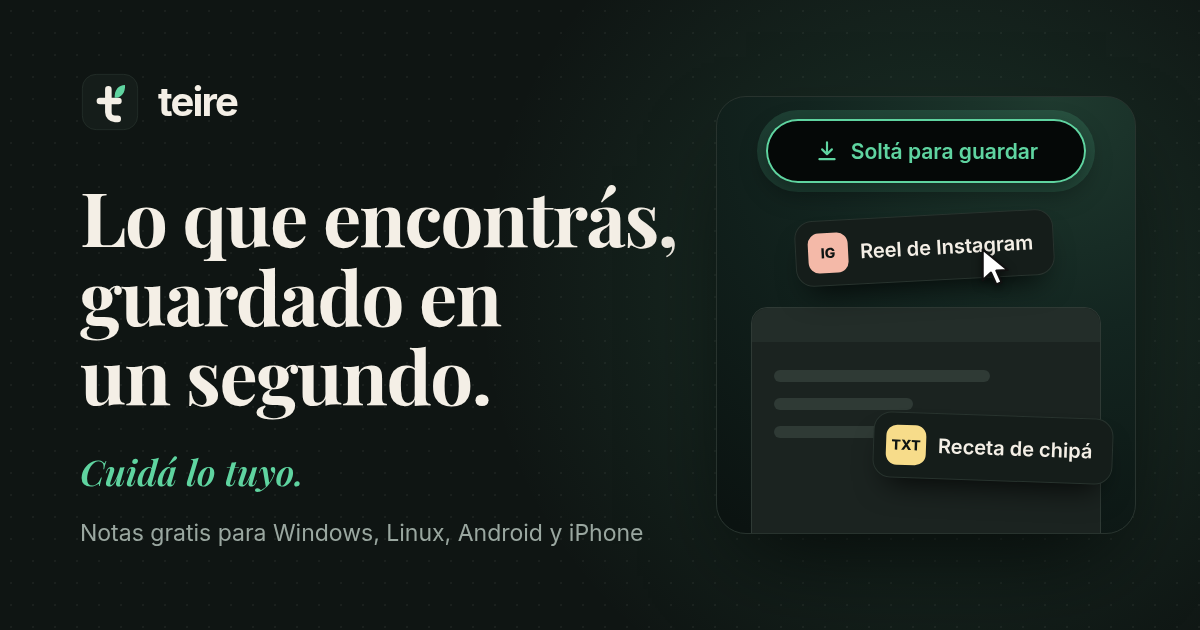
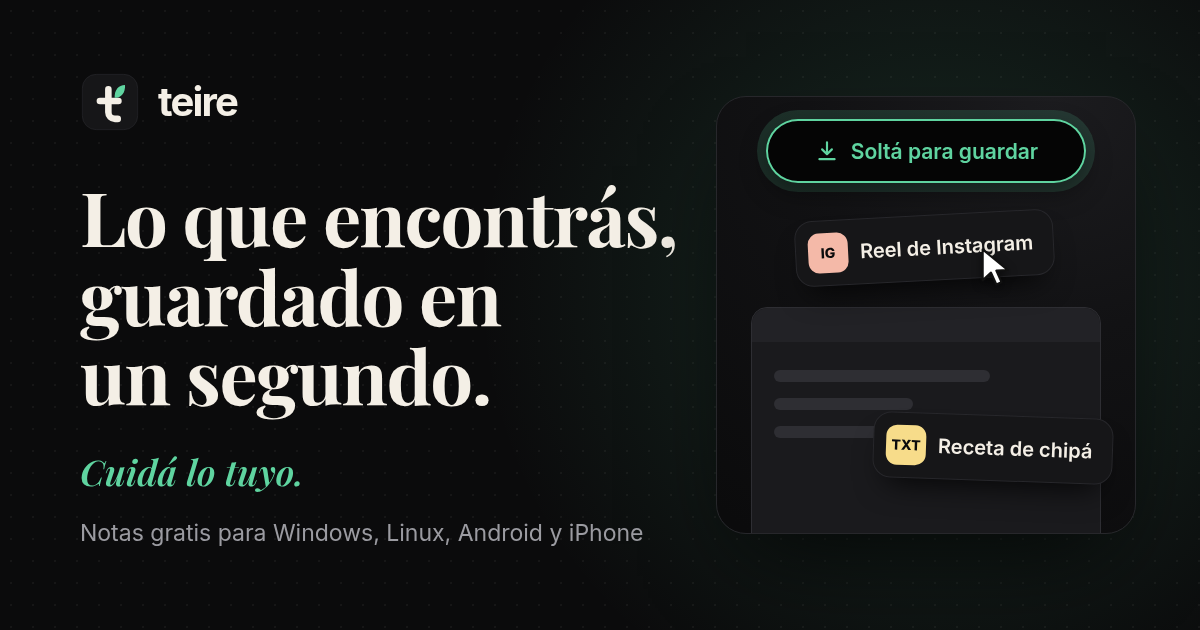
Sitio: modo oscuro negro, sin tinte verde
El fondo y las tarjetas pasan de negro verdoso a negro neutro en todas las
páginas, los SVG del README y la imagen para compartir. El verde queda como
acento (botones, tildes y la hojita del logo).

Changed region(s): [[0.7708, 0.1508, 0.9558, 0.3619]]

diff --git a/docs/assets/inicio.css b/docs/assets/inicio.css
@@ -13,12 +13,12 @@
 .nota-so a { color: var(--crema); }
 
 /* El juego de la isla: un pedazo de escritorio con la isla arriba al centro, igual a la de la app de Windows */
-.juego { position: relative; z-index: 0; isolation: isolate; height: 440px; margin-top: 40px; touch-action: pan-y; border-radius: 32px; border: 1px solid var(--linea); background: radial-gradient(130% 120% at 80% 0%, #1f3a2f 0%, #132520 45%, #0b1311 100%); overflow: hidden; }
-.ventana-falsa { position: absolute; left: 50%; top: 120px; bottom: -1px; width: min(460px, 62%); translate: -50% 0; border-radius: 16px 16px 0 0; background: #1b2320; border: 1px solid #2f3a35; border-bottom: 0; box-shadow: 0 14px 30px rgba(0,0,0,.25); pointer-events: none; }
-.ventana-falsa::before { content: ""; position: absolute; inset: 0 0 auto; height: 34px; border-radius: 16px 16px 0 0; background: #232d29; }
-.ventana-falsa i { position: absolute; left: 22px; top: 62px; width: 62%; height: 12px; border-radius: 6px; background: #2f3a35; }
+.juego { position: relative; z-index: 0; isolation: isolate; height: 440px; margin-top: 40px; touch-action: pan-y; border-radius: 32px; border: 1px solid var(--linea); background: radial-gradient(130% 120% at 80% 0%, #1c1c1f 0%, #121214 45%, #0b0b0c 100%); overflow: hidden; }
+.ventana-falsa { position: absolute; left: 50%; top: 120px; bottom: -1px; width: min(460px, 62%); translate: -50% 0; border-radius: 16px 16px 0 0; background: #1a1a1d; border: 1px solid #2e2e33; border-bottom: 0; box-shadow: 0 14px 30px rgba(0,0,0,.25); pointer-events: none; }
+.ventana-falsa::before { content: ""; position: absolute; inset: 0 0 auto; height: 34px; border-radius: 16px 16px 0 0; background: #222226; }
+.ventana-falsa i { position: absolute; left: 22px; top: 62px; width: 62%; height: 12px; border-radius: 6px; background: #2e2e33; }
 .ventana-falsa i:nth-child(2) { top: 90px; width: 40%; } .ventana-falsa i:nth-child(3) { top: 118px; width: 54%; }
-.isla { --w: 96px; --h: 30px; position: absolute; left: 50%; top: 14px; z-index: 2; width: var(--w); height: var(--h); border-radius: calc(var(--h) / 2); translate: -50% 0; overflow: hidden; background: #050807; color: var(--crema); font: 500 .84rem/1.3 var(--sans); box-shadow: 0 8px 22px rgba(0,0,0,.32), inset 0 0 0 1px rgba(255,255,255,.07); transition: width .55s cubic-bezier(.34,1.3,.5,1), height .55s cubic-bezier(.34,1.3,.5,1), box-shadow .3s; }
+.isla { --w: 96px; --h: 30px; position: absolute; left: 50%; top: 14px; z-index: 2; width: var(--w); height: var(--h); border-radius: calc(var(--h) / 2); translate: -50% 0; overflow: hidden; background: #050505; color: var(--crema); font: 500 .84rem/1.3 var(--sans); box-shadow: 0 8px 22px rgba(0,0,0,.32), inset 0 0 0 1px rgba(255,255,255,.07); transition: width .55s cubic-bezier(.34,1.3,.5,1), height .55s cubic-bezier(.34,1.3,.5,1), box-shadow .3s; }
 .isla .capa { position: absolute; inset: 0; display: flex; align-items: center; justify-content: center; gap: 8px; white-space: nowrap; opacity: 0; transition: opacity .16s ease; }
 .isla[data-estado="reposo"] .c-reposo, .isla[data-estado="encima"] .c-encima, .isla[data-estado="guardando"] .c-guardando, .isla[data-estado="guardado"] .c-guardado { opacity: 1; transition: opacity .22s ease .14s; }
 .isla .c-reposo { justify-content: space-between; padding: 0 12px 0 11px; }
@@ -48,7 +48,7 @@
 /* En el celular el juego es el mismo (así se sabe que en Windows existe), con las tarjetas arriba y abajo de la ventana. */
 @media (max-width: 760px) {
   .juego { height: 630px; border-radius: 24px; }
-  .ventana-falsa { top: 250px; bottom: 180px; width: 84%; border-radius: 16px; border-bottom: 1px solid #2f3a35; }
+  .ventana-falsa { top: 250px; bottom: 180px; width: 84%; border-radius: 16px; border-bottom: 1px solid #2e2e33; }
   .c1 { left: 10px; top: 64px; } .c5 { left: auto; right: 10px; top: 122px; } .c4 { right: auto; left: 10px; top: 180px; }
   .c3 { right: auto; left: 10px; top: 440px; } .c2 { left: auto; right: 10px; top: 500px; }
   .pista { display: none; }
@@ -77,16 +77,16 @@
 .mesa { position: relative; z-index: 0; isolation: isolate; height: 520px; border-radius: 32px; background: var(--superficie); border: 1px solid var(--linea); background-image: radial-gradient(rgba(244,239,230,.07) 1.2px, transparent 1.2px); background-size: 22px 22px; touch-action: pan-y; overflow: hidden; }
 .papel { position: absolute; width: 230px; padding: 18px 18px 16px; border-radius: 8px 8px 8px 22px; color: var(--tinta); box-shadow: 0 18px 30px -16px rgba(0,0,0,.75); cursor: grab; user-select: none; -webkit-user-select: none; touch-action: none; }
 .papel:active { cursor: grabbing; }
-.papel .etiqueta { font-size: .72rem; font-weight: 700; padding: 3px 9px; border-radius: 999px; background: rgba(15,21,19,.1); }
+.papel .etiqueta { font-size: .72rem; font-weight: 700; padding: 3px 9px; border-radius: 999px; background: rgba(11, 11, 12,.1); }
 .papel h3 { font-size: 1.08rem; margin-top: 10px; letter-spacing: -0.01em; }
-.papel p { font-size: .9rem; color: rgba(15,21,19,.72); margin-top: 6px; }
+.papel p { font-size: .9rem; color: rgba(11, 11, 12,.72); margin-top: 6px; }
 .papel ul { list-style: none; padding: 0; margin: 10px 0 0; display: grid; gap: 7px; font-size: .92rem; }
 .papel label { display: flex; align-items: center; gap: 9px; cursor: pointer; }
-.papel input { appearance: none; -webkit-appearance: none; margin: 0; flex: none; width: 18px; height: 18px; border-radius: 5px; border: 2px solid rgba(15,21,19,.6); display: grid; place-items: center; cursor: pointer; transition: background .15s; }
+.papel input { appearance: none; -webkit-appearance: none; margin: 0; flex: none; width: 18px; height: 18px; border-radius: 5px; border: 2px solid rgba(11, 11, 12,.6); display: grid; place-items: center; cursor: pointer; transition: background .15s; }
 .papel input:checked { background: var(--tinta); border-color: var(--tinta); }
 .papel input:checked::after { content: ""; width: 9px; height: 5px; border-left: 2.5px solid var(--crema); border-bottom: 2.5px solid var(--crema); rotate: -45deg; translate: 0 -1px; }
 .papel input:checked + span { text-decoration: line-through; opacity: .5; }
-.papel .avance { height: 5px; border-radius: 3px; background: rgba(15,21,19,.14); margin-top: 12px; overflow: hidden; }
+.papel .avance { height: 5px; border-radius: 3px; background: rgba(11, 11, 12,.14); margin-top: 12px; overflow: hidden; }
 .papel .avance i { display: block; height: 100%; width: 25%; background: var(--tinta); border-radius: inherit; transition: width .35s cubic-bezier(.3,1.4,.5,1); }
 .papel svg { display: block; margin-top: 8px; }
 .p-super { background: var(--amarillo); left: 5%; top: 34px; rotate: -5deg; }
@@ -108,8 +108,8 @@
 .pila { margin-top: 56px; display: grid; gap: 28px; }
 .tarjeta { position: sticky; top: calc(96px + var(--i) * 18px); min-height: 380px; border-radius: 32px; padding: 44px; color: var(--tinta); display: grid; grid-template-columns: minmax(0, 1fr) minmax(0, 1fr); gap: 40px; align-items: center; transform-origin: 50% 0; box-shadow: 0 -20px 50px -30px rgba(0,0,0,.6); }
 .tarjeta h3 { font-family: var(--serif); font-size: clamp(1.8rem, 3.2vw, 2.5rem); line-height: 1.08; }
-.tarjeta p { margin-top: 14px; font-size: 1.05rem; color: rgba(15,21,19,.78); max-width: 32em; }
-.tarjeta .que { display: inline-block; font-size: .8rem; font-weight: 700; padding: 4px 12px; border-radius: 999px; background: rgba(15,21,19,.1); margin-bottom: 16px; }
+.tarjeta p { margin-top: 14px; font-size: 1.05rem; color: rgba(11, 11, 12,.78); max-width: 32em; }
+.tarjeta .que { display: inline-block; font-size: .8rem; font-weight: 700; padding: 4px 12px; border-radius: 999px; background: rgba(11, 11, 12,.1); margin-bottom: 16px; }
 .tarjeta.oscura { background: var(--superficie-2); color: var(--crema); border: 1px solid var(--linea); }
 .tarjeta.oscura p { color: var(--gris-claro); }
 .tarjeta.oscura .que { background: rgba(95,212,160,.14); color: var(--brote); }
@@ -117,7 +117,7 @@
 .oscura .ilus { background: var(--superficie); }
 .fila { display: flex; align-items: center; gap: 10px; font-size: .95rem; font-weight: 500; }
 .fila .cara { width: 32px; height: 32px; border-radius: 50%; display: grid; place-items: center; font-size: .8rem; font-weight: 700; flex: none; }
-.globo { padding: 10px 14px; border-radius: 16px 16px 16px 4px; background: rgba(15,21,19,.86); color: var(--crema); font-size: .9rem; max-width: 80%; }
+.globo { padding: 10px 14px; border-radius: 16px 16px 16px 4px; background: rgba(11, 11, 12,.86); color: var(--crema); font-size: .9rem; max-width: 80%; }
 .globo.mio { margin-left: auto; border-radius: 16px 16px 4px 16px; background: var(--hoja); }
 .cursor-escribe::after { content: ""; display: inline-block; width: 2px; height: 1em; background: currentColor; margin-left: 2px; vertical-align: -2px; animation: titila 1s steps(1) infinite; }
 @keyframes titila { 50% { opacity: 0; } }
@@ -127,7 +127,7 @@
 .onda i:nth-child(2n) { animation-delay: -.3s; } .onda i:nth-child(3n) { animation-delay: -.6s; } .onda i:nth-child(5n) { animation-delay: -.85s; }
 @keyframes onda { 50% { height: 100%; } }
 .dias { display: grid; grid-template-columns: repeat(7, 1fr); gap: 6px; text-align: center; font-size: .8rem; font-weight: 600; }
-.dias span { padding: 10px 0; border-radius: 12px; background: rgba(15,21,19,.08); }
+.dias span { padding: 10px 0; border-radius: 12px; background: rgba(11, 11, 12,.08); }
 .dias .hoy { background: var(--tinta); color: var(--crema); }
 .aviso-recordar { display: flex; align-items: center; gap: 12px; padding: 14px 16px; border-radius: 16px; background: var(--tinta); color: var(--crema); font-size: .92rem; }
 .aviso-recordar b { color: var(--sol); font-size: .78rem; display: block; }
@@ -141,7 +141,7 @@
 }
 
 /* Premium: probá los temas acá mismo */
-.premium { --p-fondo: #151D1A; --p-texto: #F4EFE6; --p-acento: #5FD4A0; --p-tarjeta: #1C2622; border-radius: 36px; padding: 56px; background: var(--p-fondo); color: var(--p-texto); border: 1px solid color-mix(in srgb, var(--p-texto) 12%, transparent); transition: background .6s, color .6s; display: grid; grid-template-columns: minmax(0, 1fr) minmax(0, 1fr); gap: 48px; align-items: center; }
+.premium { --p-fondo: #161618; --p-texto: #F4EFE6; --p-acento: #5FD4A0; --p-tarjeta: #1E1E21; border-radius: 36px; padding: 56px; background: var(--p-fondo); color: var(--p-texto); border: 1px solid color-mix(in srgb, var(--p-texto) 12%, transparent); transition: background .6s, color .6s; display: grid; grid-template-columns: minmax(0, 1fr) minmax(0, 1fr); gap: 48px; align-items: center; }
 .premium .sello { display: inline-flex; align-items: center; gap: 8px; padding: 6px 14px; border-radius: 999px; background: rgba(255,200,107,.12); border: 1px solid rgba(255,200,107,.32); color: var(--sol); font-weight: 600; font-size: .88rem; }
 .premium .sello svg { width: 16px; height: 16px; }
 .premium h2 { font-family: var(--serif); font-size: clamp(1.9rem, 3.4vw, 2.7rem); line-height: 1.1; margin-top: 18px; }
@@ -220,7 +220,7 @@
 .cosa-e h3 { font-size: .92rem; letter-spacing: -0.01em; }
 .cosa-e p { font-size: .88rem; margin-top: 6px; }
 .e-nota { left: 5%; top: 92px; width: 200px; background: var(--amarillo); color: var(--tinta); rotate: -2deg; }
-.e-nota p { color: rgba(15,21,19,.72); }
+.e-nota p { color: rgba(11, 11, 12,.72); }
 .e-lista { left: 44%; top: 84px; width: 220px; background: var(--superficie-2); border: 1px solid var(--linea-fuerte); }
 .e-lista ul { list-style: none; padding: 0; margin: 10px 0 0; display: grid; gap: 8px; font-size: .88rem; }
 .e-lista label { display: flex; align-items: center; gap: 9px; cursor: pointer; }
@@ -230,7 +230,7 @@
 .e-lista input:checked + span { text-decoration: line-through; opacity: .5; }
 .e-kanban { left: 8%; top: 290px; width: min(470px, 84%); background: var(--superficie-2); border: 1px solid var(--linea-fuerte); }
 .e-kanban .columnas { display: grid; grid-template-columns: repeat(3, minmax(0, 1fr)); gap: 8px; margin-top: 10px; }
-.e-kanban .columnas > div { display: grid; align-content: start; gap: 6px; padding: 8px; border-radius: 10px; background: rgba(15,21,19,.45); }
+.e-kanban .columnas > div { display: grid; align-content: start; gap: 6px; padding: 8px; border-radius: 10px; background: rgba(11, 11, 12,.45); }
 .e-kanban b { display: flex; align-items: center; gap: 6px; font-size: .76rem; white-space: nowrap; }
 .e-kanban b i { width: 8px; height: 8px; border-radius: 50%; flex: none; }
 .e-kanban span { padding: 6px 8px; border-radius: 7px; background: var(--superficie); border: 1px solid var(--linea); font-size: .78rem; line-height: 1.3; color: var(--gris-claro); }
@@ -261,7 +261,7 @@
 .sello-nuevo { display: inline-block; font-size: .75rem; font-weight: 700; letter-spacing: .04em; padding: 4px 11px; border-radius: 999px; color: var(--brote); background: rgba(95,212,160,.12); border: 1px solid rgba(95,212,160,.3); }
 .ia-escena { position: relative; min-height: 440px; padding: 22px 18px 150px; border-radius: 26px; border: 1px solid var(--linea); overflow: hidden;
   background: radial-gradient(420px 220px at 15% 110%, rgba(95,212,160,.22), transparent 65%), radial-gradient(360px 200px at 95% -10%, rgba(255,200,107,.2), transparent 65%), linear-gradient(160deg, #2b4a5c, #1b2d3a 55%, #152029); }
-.ia-isla { position: relative; z-index: 2; margin: 0 auto; max-width: 520px; border-radius: 28px; background: #050807; color: var(--crema); box-shadow: 0 18px 40px rgba(0,0,0,.45), inset 0 0 0 1px rgba(255,255,255,.07); font-size: .9rem; line-height: 1.35; }
+.ia-isla { position: relative; z-index: 2; margin: 0 auto; max-width: 520px; border-radius: 28px; background: #050505; color: var(--crema); box-shadow: 0 18px 40px rgba(0,0,0,.45), inset 0 0 0 1px rgba(255,255,255,.07); font-size: .9rem; line-height: 1.35; }
 .ia-pestanas { display: flex; align-items: center; justify-content: center; gap: 2px; padding: 10px 12px 0; }
 .ia-t { width: 18px; height: 18px; margin: 0 4px; }
 .ia-sep { width: 1px; height: 16px; margin: 0 6px; background: rgba(244,239,230,.12); }
@@ -302,10 +302,10 @@
 .ia-sw i::after { content: ""; position: absolute; top: 2px; left: 2px; width: 12px; height: 12px; border-radius: 50%; background: var(--crema); }
 .ia-sw.on i { background: var(--brote); } .ia-sw.on i::after { left: 14px; background: #fff; }
 .ia-campo { display: flex; align-items: center; height: 36px; padding: 0 12px; border-radius: 12px; background: rgba(244,239,230,.08); color: var(--gris); font-size: .82rem; margin-bottom: 6px; }
-.ia-pastilla { position: absolute; z-index: 2; left: 22px; bottom: 44px; display: flex; align-items: center; gap: 8px; height: 32px; padding: 0 14px; border-radius: 99px; background: #050807; color: var(--gris); font-size: .8rem; box-shadow: 0 10px 24px rgba(0,0,0,.4), inset 0 0 0 1px rgba(255,255,255,.07); white-space: nowrap; }
+.ia-pastilla { position: absolute; z-index: 2; left: 22px; bottom: 44px; display: flex; align-items: center; gap: 8px; height: 32px; padding: 0 14px; border-radius: 99px; background: #050505; color: var(--gris); font-size: .8rem; box-shadow: 0 10px 24px rgba(0,0,0,.4), inset 0 0 0 1px rgba(255,255,255,.07); white-space: nowrap; }
 .ia-pastilla svg { width: 16px; height: 16px; fill: none; stroke: var(--brote); stroke-width: 2; stroke-linecap: round; }
 .ia-pastilla b { color: var(--brote); font-variant-numeric: tabular-nums; }
-.ia-postit { position: absolute; z-index: 1; right: 18px; bottom: 18px; width: 170px; display: flex; flex-direction: column; gap: 4px; padding: 0 12px 12px; border-radius: 14px; background: #1C2622; box-shadow: 0 14px 30px rgba(0,0,0,.4), inset 0 0 0 1px rgba(255,255,255,.07); font-size: .8rem; rotate: 3deg; }
+.ia-postit { position: absolute; z-index: 1; right: 18px; bottom: 18px; width: 170px; display: flex; flex-direction: column; gap: 4px; padding: 0 12px 12px; border-radius: 14px; background: #1E1E21; box-shadow: 0 14px 30px rgba(0,0,0,.4), inset 0 0 0 1px rgba(255,255,255,.07); font-size: .8rem; rotate: 3deg; }
 .ia-postit b { margin: 0 -12px 4px; padding: 7px 12px; border-radius: 14px 14px 0 0; color: var(--sol); background: rgba(255,200,107,.15); font-size: .78rem; }
 .ia-postit span::before { content: ""; display: inline-block; width: 10px; height: 10px; margin-right: 7px; border-radius: 50%; border: 1.5px solid var(--gris); vertical-align: -1px; }
 .ia-postit span.hecho { color: var(--gris); text-decoration: line-through; }
@@ -348,18 +348,18 @@
 .ia-ava.chica { width: 22px; height: 22px; font-size: .66rem; }
 .ia-caras { display: flex; gap: 14px; margin-bottom: 6px; }
 .ia-cara { position: relative; display: flex; flex-direction: column; align-items: center; gap: 3px; font-size: .7rem; color: var(--gris); }
-.ia-cara .en { position: absolute; top: 26px; left: 26px; width: 10px; height: 10px; border-radius: 50%; background: var(--brote); box-shadow: 0 0 0 2.5px #050807; }
+.ia-cara .en { position: absolute; top: 26px; left: 26px; width: 10px; height: 10px; border-radius: 50%; background: var(--brote); box-shadow: 0 0 0 2.5px #050505; }
 .ia-cara .ia-num { top: -3px; right: -4px; }
 .ia-seg { display: inline-flex; gap: 2px; padding: 3px; margin-bottom: 8px; border-radius: 99px; background: rgba(244,239,230,.08); }
 .ia-seg button { height: 26px; padding: 0 12px; border: 0; border-radius: 99px; font: 600 .74rem/1 var(--sans); color: var(--gris); background: none; cursor: pointer; }
-.ia-seg button.on { color: #050807; background: var(--crema); }
+.ia-seg button.on { color: #050505; background: var(--crema); }
 .ia-estante { display: flex; gap: 8px; margin-bottom: 6px; }
 .ia-estante span { flex: 1; min-width: 0; display: flex; flex-direction: column; gap: 5px; padding: 7px; border-radius: 12px; background: rgba(244,239,230,.07); font-size: .72rem; white-space: nowrap; overflow: hidden; text-overflow: ellipsis; }
 .ia-estante i { display: block; height: 44px; border-radius: 8px; }
 .ia-grupo { display: grid; grid-template-columns: .9fr 1.1fr; gap: 14px; }
 .ia-grupo .de { display: block; color: var(--gris); font-size: .72rem; margin-top: 4px; }
 .ia-apilar { display: flex; margin-top: 4px; }
-.ia-apilar .ia-ava { margin-left: -6px; box-shadow: 0 0 0 2.5px #050807; }
+.ia-apilar .ia-ava { margin-left: -6px; box-shadow: 0 0 0 2.5px #050505; }
 .ia-apilar .ia-ava:first-child { margin-left: 0; }
 .ia-prog { height: 6px; margin-top: 8px; border-radius: 9px; background: rgba(244,239,230,.08); overflow: hidden; }
 .ia-prog i { display: block; height: 100%; border-radius: 9px; background: var(--brote); }

diff --git a/scripts/compartir.html b/scripts/compartir.html
@@ -14,12 +14,12 @@ body { background: var(--tinta) radial-gradient(circle at 78% 46%, rgba(95,212,1
 h1 { font: 700 76px/1.04 var(--serif); letter-spacing: -.02em; margin: 44px 0 0; }
 .lema { font: italic 600 36px/1 var(--serif); color: var(--brote); margin: 40px 0 0; }
 .abajo { color: var(--gris); font-size: 23px; margin: 26px 0 0; }
-.pantalla { position: absolute; right: 64px; top: 96px; width: 420px; height: 438px; border-radius: 30px; border: 1px solid var(--linea); overflow: hidden; background: radial-gradient(130% 120% at 80% 0%, #1f3a2f 0%, #132520 45%, #0b1311 100%); box-shadow: 0 40px 90px -30px rgba(0,0,0,.8); }
-.ventana { position: absolute; left: 34px; right: 34px; top: 210px; bottom: -2px; border-radius: 16px 16px 0 0; background: #1b2320; border: 1px solid #2f3a35; }
-.ventana::before { content: ""; position: absolute; inset: 0 0 auto; height: 34px; border-radius: 16px 16px 0 0; background: #232d29; }
-.ventana i { position: absolute; left: 22px; top: 62px; width: 62%; height: 12px; border-radius: 6px; background: #2f3a35; }
+.pantalla { position: absolute; right: 64px; top: 96px; width: 420px; height: 438px; border-radius: 30px; border: 1px solid var(--linea); overflow: hidden; background: radial-gradient(130% 120% at 80% 0%, #1c1c1f 0%, #121214 45%, #0b0b0c 100%); box-shadow: 0 40px 90px -30px rgba(0,0,0,.8); }
+.ventana { position: absolute; left: 34px; right: 34px; top: 210px; bottom: -2px; border-radius: 16px 16px 0 0; background: #1a1a1d; border: 1px solid #2e2e33; }
+.ventana::before { content: ""; position: absolute; inset: 0 0 auto; height: 34px; border-radius: 16px 16px 0 0; background: #222226; }
+.ventana i { position: absolute; left: 22px; top: 62px; width: 62%; height: 12px; border-radius: 6px; background: #2e2e33; }
 .ventana i:nth-child(2) { top: 90px; width: 40%; } .ventana i:nth-child(3) { top: 118px; width: 54%; }
-.isla { position: absolute; left: 50%; top: 22px; translate: -50% 0; display: flex; align-items: center; justify-content: center; gap: 11px; width: 320px; height: 64px; border-radius: 32px; background: #050807; color: var(--brote); font: 600 21px/1 var(--sans); box-shadow: 0 10px 26px rgba(0,0,0,.4), inset 0 0 0 2px var(--brote), 0 0 0 9px rgba(95,212,160,.16); }
+.isla { position: absolute; left: 50%; top: 22px; translate: -50% 0; display: flex; align-items: center; justify-content: center; gap: 11px; width: 320px; height: 64px; border-radius: 32px; background: #050505; color: var(--brote); font: 600 21px/1 var(--sans); box-shadow: 0 10px 26px rgba(0,0,0,.4), inset 0 0 0 2px var(--brote), 0 0 0 9px rgba(95,212,160,.16); }
 .isla svg { width: 26px; height: 26px; }
 .ficha { position: absolute; display: flex; align-items: center; gap: 12px; padding: 12px 20px 12px 12px; border-radius: 18px; background: var(--superficie); border: 1px solid var(--linea); font: 600 20px/1.2 var(--sans); box-shadow: 0 18px 30px -14px rgba(0,0,0,.8); }
 .ficha b { display: grid; place-items: center; width: 40px; height: 40px; border-radius: 11px; font-size: 14px; font-weight: 800; color: var(--tinta); }
@@ -29,7 +29,7 @@ h1 { font: 700 76px/1.04 var(--serif); letter-spacing: -.02em; margin: 44px 0 0;
 </head>
 <body>
 <div class="izq">
-  <div class="marca"><svg viewBox="0 0 512 512"><rect x="20" y="20" width="472" height="472" rx="118" fill="#151D1A" stroke="#28332E" stroke-width="6"/><g transform="translate(16 6)"><path d="M226 142 V338 a56 56 0 0 0 56 56 h24" fill="none" stroke="#F4EFE6" stroke-width="56" stroke-linecap="round" stroke-linejoin="round"/><path d="M154 242 H312" fill="none" stroke="#F4EFE6" stroke-width="56" stroke-linecap="round"/><path d="M368 104 C372 170 338 214 280 214 C276 148 312 104 368 104 Z" fill="#5FD4A0"/></g></svg>teire</div>
+  <div class="marca"><svg viewBox="0 0 512 512"><rect x="20" y="20" width="472" height="472" rx="118" fill="#161618" stroke="#27272B" stroke-width="6"/><g transform="translate(16 6)"><path d="M226 142 V338 a56 56 0 0 0 56 56 h24" fill="none" stroke="#F4EFE6" stroke-width="56" stroke-linecap="round" stroke-linejoin="round"/><path d="M154 242 H312" fill="none" stroke="#F4EFE6" stroke-width="56" stroke-linecap="round"/><path d="M368 104 C372 170 338 214 280 214 C276 148 312 104 368 104 Z" fill="#5FD4A0"/></g></svg>teire</div>
   <h1>Lo que encontrás, guardado en un segundo.</h1>
   <p class="lema">Cuidá lo tuyo.</p>
   <p class="abajo">Notas gratis para Windows, Linux, Android y iPhone</p>

diff --git a/docs/index.html b/docs/index.html
@@ -7,7 +7,7 @@
 <meta name="description" content="Teire (antes Noty) es una app de notas gratis: listas que completás en vivo con tus amigos, un Espacio para trabajar en grupo, recordatorios y una isla en tu pantalla que guarda links y fotos, muestra tu música y tu día, y te acompaña en modo foco.">
 <link rel="canonical" href="https://useteire.app/">
 <meta name="robots" content="index, follow, max-image-preview:large">
-<meta name="theme-color" content="#0F1513">
+<meta name="theme-color" content="#0B0B0C">
 <meta name="author" content="Teire">
 <meta property="og:type" content="website">
 <meta property="og:locale" content="es_AR">
@@ -83,7 +83,7 @@
 
 <svg width="0" height="0" style="position:absolute" aria-hidden="true">
   <defs>
-    <symbol id="logo" viewBox="0 0 512 512"><rect x="20" y="20" width="472" height="472" rx="118" fill="#151D1A" stroke="#28332E" stroke-width="10"/><path d="M226 142 V338 a56 56 0 0 0 56 56 h24" fill="none" stroke="#F4EFE6" stroke-width="56" stroke-linecap="round" stroke-linejoin="round"/><path d="M154 242 H312" fill="none" stroke="#F4EFE6" stroke-width="56" stroke-linecap="round"/><path d="M368 104 C372 170 338 214 280 214 C276 148 312 104 368 104 Z" fill="#5FD4A0"/></symbol>
+    <symbol id="logo" viewBox="0 0 512 512"><rect x="20" y="20" width="472" height="472" rx="118" fill="#161618" stroke="#27272B" stroke-width="10"/><path d="M226 142 V338 a56 56 0 0 0 56 56 h24" fill="none" stroke="#F4EFE6" stroke-width="56" stroke-linecap="round" stroke-linejoin="round"/><path d="M154 242 H312" fill="none" stroke="#F4EFE6" stroke-width="56" stroke-linecap="round"/><path d="M368 104 C372 170 338 214 280 214 C276 148 312 104 368 104 Z" fill="#5FD4A0"/></symbol>
     <symbol id="flecha-abajo" viewBox="0 0 24 24"><path d="M12 4v13m0 0-5.5-5.5M12 17l5.5-5.5M5 20.5h14" fill="none" stroke="currentColor" stroke-width="2.4" stroke-linecap="round" stroke-linejoin="round"/></symbol>
     <symbol id="hojita" viewBox="0 0 16 16"><path d="M14 2C14.3 8 11.5 12 5 12 4.7 6 7.8 2 14 2Z" fill="currentColor"/><path d="M3 14c2-3 4.5-5.5 8-8" stroke="currentColor" stroke-width="1.4" fill="none" stroke-linecap="round"/></symbol>
     <symbol id="i-windows" viewBox="0 0 24 24"><path d="M3 5.5 10.5 4.4v7.1H3zm8.5-1.2L21 3v8.5h-9.5zM3 12.5h7.5v7.1L3 18.5zm8.5 0H21V21l-9.5-1.3z" fill="currentColor"/></symbol>

diff --git a/docs/alternativa-google-keep/index.html b/docs/alternativa-google-keep/index.html
@@ -6,7 +6,7 @@
 <title>Alternativa a Google Keep gratis para notas · Teire</title>
 <meta name="description" content="Teire es una alternativa gratis a Google Keep: notas y listas en vivo con tus amigos, pizarrones, Espacio para tu grupo y notas con PIN cifradas.">
 <link rel="canonical" href="https://useteire.app/alternativa-google-keep/">
-<meta name="theme-color" content="#0F1513">
+<meta name="theme-color" content="#0B0B0C">
 <meta property="og:type" content="article">
 <meta property="og:locale" content="es_AR">
 <meta property="og:site_name" content="Teire">
@@ -26,7 +26,7 @@
 <body>
 <a class="saltar" href="#contenido">Saltar al contenido</a>
 <svg width="0" height="0" style="position:absolute" aria-hidden="true"><defs>
-<symbol id="logo" viewBox="0 0 512 512"><rect x="20" y="20" width="472" height="472" rx="118" fill="#151D1A" stroke="#28332E" stroke-width="10"/><path d="M226 142 V338 a56 56 0 0 0 56 56 h24" fill="none" stroke="#F4EFE6" stroke-width="56" stroke-linecap="round" stroke-linejoin="round"/><path d="M154 242 H312" fill="none" stroke="#F4EFE6" stroke-width="56" stroke-linecap="round"/><path d="M368 104 C372 170 338 214 280 214 C276 148 312 104 368 104 Z" fill="#5FD4A0"/></symbol>
+<symbol id="logo" viewBox="0 0 512 512"><rect x="20" y="20" width="472" height="472" rx="118" fill="#161618" stroke="#27272B" stroke-width="10"/><path d="M226 142 V338 a56 56 0 0 0 56 56 h24" fill="none" stroke="#F4EFE6" stroke-width="56" stroke-linecap="round" stroke-linejoin="round"/><path d="M154 242 H312" fill="none" stroke="#F4EFE6" stroke-width="56" stroke-linecap="round"/><path d="M368 104 C372 170 338 214 280 214 C276 148 312 104 368 104 Z" fill="#5FD4A0"/></symbol>
 </defs></svg>
 <header class="barra siempre" id="barra">
   <div class="barra-fondo"></div>

diff --git a/docs/notas-compartidas/index.html b/docs/notas-compartidas/index.html
@@ -6,7 +6,7 @@
 <title>App de notas compartidas gratis con tus amigos · Teire</title>
 <meta name="description" content="Compartí notas y listas con tus amigos y editenlas en vivo, letra por letra. Teire es gratis para Windows, Android, iPhone, Linux y el navegador.">
 <link rel="canonical" href="https://useteire.app/notas-compartidas/">
-<meta name="theme-color" content="#0F1513">
+<meta name="theme-color" content="#0B0B0C">
 <meta property="og:type" content="article">
 <meta property="og:locale" content="es_AR">
 <meta property="og:site_name" content="Teire">
@@ -26,7 +26,7 @@
 <body>
 <a class="saltar" href="#contenido">Saltar al contenido</a>
 <svg width="0" height="0" style="position:absolute" aria-hidden="true"><defs>
-<symbol id="logo" viewBox="0 0 512 512"><rect x="20" y="20" width="472" height="472" rx="118" fill="#151D1A" stroke="#28332E" stroke-width="10"/><path d="M226 142 V338 a56 56 0 0 0 56 56 h24" fill="none" stroke="#F4EFE6" stroke-width="56" stroke-linecap="round" stroke-linejoin="round"/><path d="M154 242 H312" fill="none" stroke="#F4EFE6" stroke-width="56" stroke-linecap="round"/><path d="M368 104 C372 170 338 214 280 214 C276 148 312 104 368 104 Z" fill="#5FD4A0"/></symbol>
+<symbol id="logo" viewBox="0 0 512 512"><rect x="20" y="20" width="472" height="472" rx="118" fill="#161618" stroke="#27272B" stroke-width="10"/><path d="M226 142 V338 a56 56 0 0 0 56 56 h24" fill="none" stroke="#F4EFE6" stroke-width="56" stroke-linecap="round" stroke-linejoin="round"/><path d="M154 242 H312" fill="none" stroke="#F4EFE6" stroke-width="56" stroke-linecap="round"/><path d="M368 104 C372 170 338 214 280 214 C276 148 312 104 368 104 Z" fill="#5FD4A0"/></symbol>
 </defs></svg>
 <header class="barra siempre" id="barra">
   <div class="barra-fondo"></div>

diff --git a/docs/iphone/index.html b/docs/iphone/index.html
@@ -6,7 +6,7 @@
 <title>Teire en iPhone: cómo instalarla · Teire</title>
 <meta name="description" content="Cómo instalar Teire en tu iPhone desde Safari, gratis y sin App Store: los pasos, las notificaciones y cómo guardar links.">
 <link rel="canonical" href="https://useteire.app/iphone/">
-<meta name="theme-color" content="#0F1513">
+<meta name="theme-color" content="#0B0B0C">
 <meta property="og:type" content="article">
 <meta property="og:locale" content="es_AR">
 <meta property="og:site_name" content="Teire">
@@ -26,7 +26,7 @@
 <body>
 <a class="saltar" href="#contenido">Saltar al contenido</a>
 <svg width="0" height="0" style="position:absolute" aria-hidden="true"><defs>
-<symbol id="logo" viewBox="0 0 512 512"><rect x="20" y="20" width="472" height="472" rx="118" fill="#151D1A" stroke="#28332E" stroke-width="10"/><path d="M226 142 V338 a56 56 0 0 0 56 56 h24" fill="none" stroke="#F4EFE6" stroke-width="56" stroke-linecap="round" stroke-linejoin="round"/><path d="M154 242 H312" fill="none" stroke="#F4EFE6" stroke-width="56" stroke-linecap="round"/><path d="M368 104 C372 170 338 214 280 214 C276 148 312 104 368 104 Z" fill="#5FD4A0"/></symbol>
+<symbol id="logo" viewBox="0 0 512 512"><rect x="20" y="20" width="472" height="472" rx="118" fill="#161618" stroke="#27272B" stroke-width="10"/><path d="M226 142 V338 a56 56 0 0 0 56 56 h24" fill="none" stroke="#F4EFE6" stroke-width="56" stroke-linecap="round" stroke-linejoin="round"/><path d="M154 242 H312" fill="none" stroke="#F4EFE6" stroke-width="56" stroke-linecap="round"/><path d="M368 104 C372 170 338 214 280 214 C276 148 312 104 368 104 Z" fill="#5FD4A0"/></symbol>
 </defs></svg>
 <header class="barra siempre" id="barra">
   <div class="barra-fondo"></div>

diff --git a/docs/privacidad/index.html b/docs/privacidad/index.html
@@ -6,7 +6,7 @@
 <title>Política de privacidad · Teire</title>
 <meta name="description" content="Qué datos guarda Teire, para qué los usa y con quién se comparten. Sin publicidad, sin analíticas y sin venta de datos.">
 <link rel="canonical" href="https://useteire.app/privacidad/">
-<meta name="theme-color" content="#0F1513">
+<meta name="theme-color" content="#0B0B0C">
 <meta property="og:type" content="article">
 <meta property="og:locale" content="es_AR">
 <meta property="og:site_name" content="Teire">
@@ -26,7 +26,7 @@
 <body>
 <a class="saltar" href="#contenido">Saltar al contenido</a>
 <svg width="0" height="0" style="position:absolute" aria-hidden="true"><defs>
-<symbol id="logo" viewBox="0 0 512 512"><rect x="20" y="20" width="472" height="472" rx="118" fill="#151D1A" stroke="#28332E" stroke-width="10"/><path d="M226 142 V338 a56 56 0 0 0 56 56 h24" fill="none" stroke="#F4EFE6" stroke-width="56" stroke-linecap="round" stroke-linejoin="round"/><path d="M154 242 H312" fill="none" stroke="#F4EFE6" stroke-width="56" stroke-linecap="round"/><path d="M368 104 C372 170 338 214 280 214 C276 148 312 104 368 104 Z" fill="#5FD4A0"/></symbol>
+<symbol id="logo" viewBox="0 0 512 512"><rect x="20" y="20" width="472" height="472" rx="118" fill="#161618" stroke="#27272B" stroke-width="10"/><path d="M226 142 V338 a56 56 0 0 0 56 56 h24" fill="none" stroke="#F4EFE6" stroke-width="56" stroke-linecap="round" stroke-linejoin="round"/><path d="M154 242 H312" fill="none" stroke="#F4EFE6" stroke-width="56" stroke-linecap="round"/><path d="M368 104 C372 170 338 214 280 214 C276 148 312 104 368 104 Z" fill="#5FD4A0"/></symbol>
 </defs></svg>
 <header class="barra siempre" id="barra">
   <div class="barra-fondo"></div>

diff --git a/docs/terminos/index.html b/docs/terminos/index.html
@@ -6,7 +6,7 @@
 <title>Términos y condiciones · Teire</title>
 <meta name="description" content="Las reglas para usar Teire: tu cuenta, tu contenido, lo que no se puede hacer, Teire IA y cómo funciona Teire Premium.">
 <link rel="canonical" href="https://useteire.app/terminos/">
-<meta name="theme-color" content="#0F1513">
+<meta name="theme-color" content="#0B0B0C">
 <meta property="og:type" content="article">
 <meta property="og:locale" content="es_AR">
 <meta property="og:site_name" content="Teire">
@@ -26,7 +26,7 @@
 <body>
 <a class="saltar" href="#contenido">Saltar al contenido</a>
 <svg width="0" height="0" style="position:absolute" aria-hidden="true"><defs>
-<symbol id="logo" viewBox="0 0 512 512"><rect x="20" y="20" width="472" height="472" rx="118" fill="#151D1A" stroke="#28332E" stroke-width="10"/><path d="M226 142 V338 a56 56 0 0 0 56 56 h24" fill="none" stroke="#F4EFE6" stroke-width="56" stroke-linecap="round" stroke-linejoin="round"/><path d="M154 242 H312" fill="none" stroke="#F4EFE6" stroke-width="56" stroke-linecap="round"/><path d="M368 104 C372 170 338 214 280 214 C276 148 312 104 368 104 Z" fill="#5FD4A0"/></symbol>
+<symbol id="logo" viewBox="0 0 512 512"><rect x="20" y="20" width="472" height="472" rx="118" fill="#161618" stroke="#27272B" stroke-width="10"/><path d="M226 142 V338 a56 56 0 0 0 56 56 h24" fill="none" stroke="#F4EFE6" stroke-width="56" stroke-linecap="round" stroke-linejoin="round"/><path d="M154 242 H312" fill="none" stroke="#F4EFE6" stroke-width="56" stroke-linecap="round"/><path d="M368 104 C372 170 338 214 280 214 C276 148 312 104 368 104 Z" fill="#5FD4A0"/></symbol>
 </defs></svg>
 <header class="barra siempre" id="barra">
   <div class="barra-fondo"></div>

diff --git a/docs/arrepentimiento/index.html b/docs/arrepentimiento/index.html
@@ -6,7 +6,7 @@
 <title>Botón de arrepentimiento · Teire</title>
 <meta name="description" content="Cómo arrepentirte de un pago de Teire Premium dentro de los 10 días y recibir la devolución completa.">
 <link rel="canonical" href="https://useteire.app/arrepentimiento/">
-<meta name="theme-color" content="#0F1513">
+<meta name="theme-color" content="#0B0B0C">
 <meta property="og:type" content="article">
 <meta property="og:locale" content="es_AR">
 <meta property="og:site_name" content="Teire">
@@ -26,7 +26,7 @@
 <body>
 <a class="saltar" href="#contenido">Saltar al contenido</a>
 <svg width="0" height="0" style="position:absolute" aria-hidden="true"><defs>
-<symbol id="logo" viewBox="0 0 512 512"><rect x="20" y="20" width="472" height="472" rx="118" fill="#151D1A" stroke="#28332E" stroke-width="10"/><path d="M226 142 V338 a56 56 0 0 0 56 56 h24" fill="none" stroke="#F4EFE6" stroke-width="56" stroke-linecap="round" stroke-linejoin="round"/><path d="M154 242 H312" fill="none" stroke="#F4EFE6" stroke-width="56" stroke-linecap="round"/><path d="M368 104 C372 170 338 214 280 214 C276 148 312 104 368 104 Z" fill="#5FD4A0"/></symbol>
+<symbol id="logo" viewBox="0 0 512 512"><rect x="20" y="20" width="472" height="472" rx="118" fill="#161618" stroke="#27272B" stroke-width="10"/><path d="M226 142 V338 a56 56 0 0 0 56 56 h24" fill="none" stroke="#F4EFE6" stroke-width="56" stroke-linecap="round" stroke-linejoin="round"/><path d="M154 242 H312" fill="none" stroke="#F4EFE6" stroke-width="56" stroke-linecap="round"/><path d="M368 104 C372 170 338 214 280 214 C276 148 312 104 368 104 Z" fill="#5FD4A0"/></symbol>
 </defs></svg>
 <header class="barra siempre" id="barra">
   <div class="barra-fondo"></div>

diff --git a/docs/assets/teire.css b/docs/assets/teire.css
@@ -7,8 +7,8 @@
 @font-face { font-family: "Caveat"; src: url("fuentes/caveat-latin-600-normal.woff2") format("woff2"); font-weight: 600; font-display: swap; }
 
 :root {
-  --tinta: #0F1513; --superficie: #151D1A; --superficie-2: #1C2622; --linea: #28332E; --linea-fuerte: #3a4a42;
-  --crema: #F4EFE6; --gris: #9AA7A0; --gris-claro: #c4cec9; --brote: #5FD4A0; --hoja: #1F9D6E; --sol: #FFC86B; --coral: #FF7A66;
+  --tinta: #0B0B0C; --superficie: #161618; --superficie-2: #1E1E21; --linea: #27272B; --linea-fuerte: #3a3a40;
+  --crema: #F4EFE6; --gris: #9B9BA1; --gris-claro: #c8c8cd; --brote: #5FD4A0; --hoja: #1F9D6E; --sol: #FFC86B; --coral: #FF7A66;
   --amarillo: #F7DC8A; --celeste: #9FD9EC; --menta: #B9E8CF; --rosa: #F4B9A8;
   --serif: "Playfair Display", Georgia, "Times New Roman", serif;
   --sans: "Inter", "Segoe UI", system-ui, -apple-system, sans-serif;
@@ -51,7 +51,7 @@ img, svg { max-width: 100%; }
 
 /* Botones */
 .boton { display: inline-flex; align-items: center; justify-content: center; gap: 10px; min-height: 46px; padding: 0 22px; border-radius: 999px; font: 600 .98rem/1 var(--sans); text-decoration: none; border: 1px solid var(--linea); background: var(--superficie-2); color: var(--crema); cursor: pointer; white-space: nowrap; transition: background .2s, border-color .2s, transform .25s cubic-bezier(.3,1.6,.5,1); }
-.boton:hover { background: #22302a; border-color: var(--linea-fuerte); }
+.boton:hover { background: #26262a; border-color: var(--linea-fuerte); }
 .boton:active { transform: scale(.97); }
 .boton-chico { min-height: 40px; padding: 0 18px; font-size: .9rem; }
 /* Descargar: una gota de la burbuja, con la luz que gira adentro */

diff --git a/docs/assets/inicio.js b/docs/assets/inicio.js
@@ -166,7 +166,7 @@
   const iaReloj = () => `${String(Math.floor(iaSeg / 60)).padStart(2, "0")}:${String(iaSeg % 60).padStart(2, "0")}`;
   const IA_ANILLO = 2 * Math.PI * 46;
   const iaCara = (letra, color, extra = "") => `<span class="ia-ava ${extra}" style="background:${color}">${letra}</span>`;
-  const SPOTIFY = `<svg viewBox="0 0 24 24" aria-hidden="true"><circle cx="12" cy="12" r="12" fill="#1ed760"/><path d="M5.5 9c4.5-1.3 9.5-1 13 1M6.2 12.4c3.8-1 8-.7 11 1M7 15.6c3-.7 6.3-.5 8.8.9" stroke="#0a0d0c" stroke-width="1.7" stroke-linecap="round" fill="none"/></svg>`;
+  const SPOTIFY = `<svg viewBox="0 0 24 24" aria-hidden="true"><circle cx="12" cy="12" r="12" fill="#1ed760"/><path d="M5.5 9c4.5-1.3 9.5-1 13 1M6.2 12.4c3.8-1 8-.7 11 1M7 15.6c3-.7 6.3-.5 8.8.9" stroke="#0a0a0b" stroke-width="1.7" stroke-linecap="round" fill="none"/></svg>`;
   const IA = {
     musica: () => `<div class="ia-mus">
       <div class="ia-tapa">${SPOTIFY}</div>
@@ -247,7 +247,7 @@
 
   // ---------- Premium: los temas pintan la caja ----------
   const TEMAS = {
-    teire: { fondo: "#151D1A", texto: "#F4EFE6", acento: "#5FD4A0", tarjeta: "#1C2622" },
+    teire: { fondo: "#161618", texto: "#F4EFE6", acento: "#5FD4A0", tarjeta: "#1E1E21" },
     jardin: { fondo: "#0E1C14", texto: "#E4F5EA", acento: "#8BD9A0", tarjeta: "#1D3A2A" },
     oro: { fondo: "#17130B", texto: "#FFF1D6", acento: "#FFC86B", tarjeta: "#2E2412" },
     papel: { fondo: "#F6F0E4", texto: "#2B2620", acento: "#8A6F4E", tarjeta: "#E8DDC8" },

diff --git a/docs/unirse/index.html b/docs/unirse/index.html
@@ -11,7 +11,7 @@
 <link rel="preconnect" href="https://fonts.gstatic.com" crossorigin>
 <link href="https://fonts.googleapis.com/css2?family=Inter:wght@400;500;600;700&family=Playfair+Display:ital,wght@0,700;1,600&display=swap" rel="stylesheet">
 <style>
-:root{--tinta:#0F1513;--superficie:#151D1A;--superficie-2:#1C2622;--borde:#28332E;--crema:#F4EFE6;--brote:#5FD4A0;--sol:#FFC86B;--coral:#FF7A66;--gris:#9AA7A0}
+:root{--tinta:#0B0B0C;--superficie:#161618;--superficie-2:#1E1E21;--borde:#27272B;--crema:#F4EFE6;--brote:#5FD4A0;--sol:#FFC86B;--coral:#FF7A66;--gris:#9B9BA1}
 *{box-sizing:border-box}
 html,body{margin:0}
 body{min-height:100vh;background:var(--tinta);color:var(--crema);font-family:Inter,system-ui,sans-serif;line-height:1.5;-webkit-font-smoothing:antialiased;display:flex;flex-direction:column;align-items:center;padding:28px 16px 40px}
